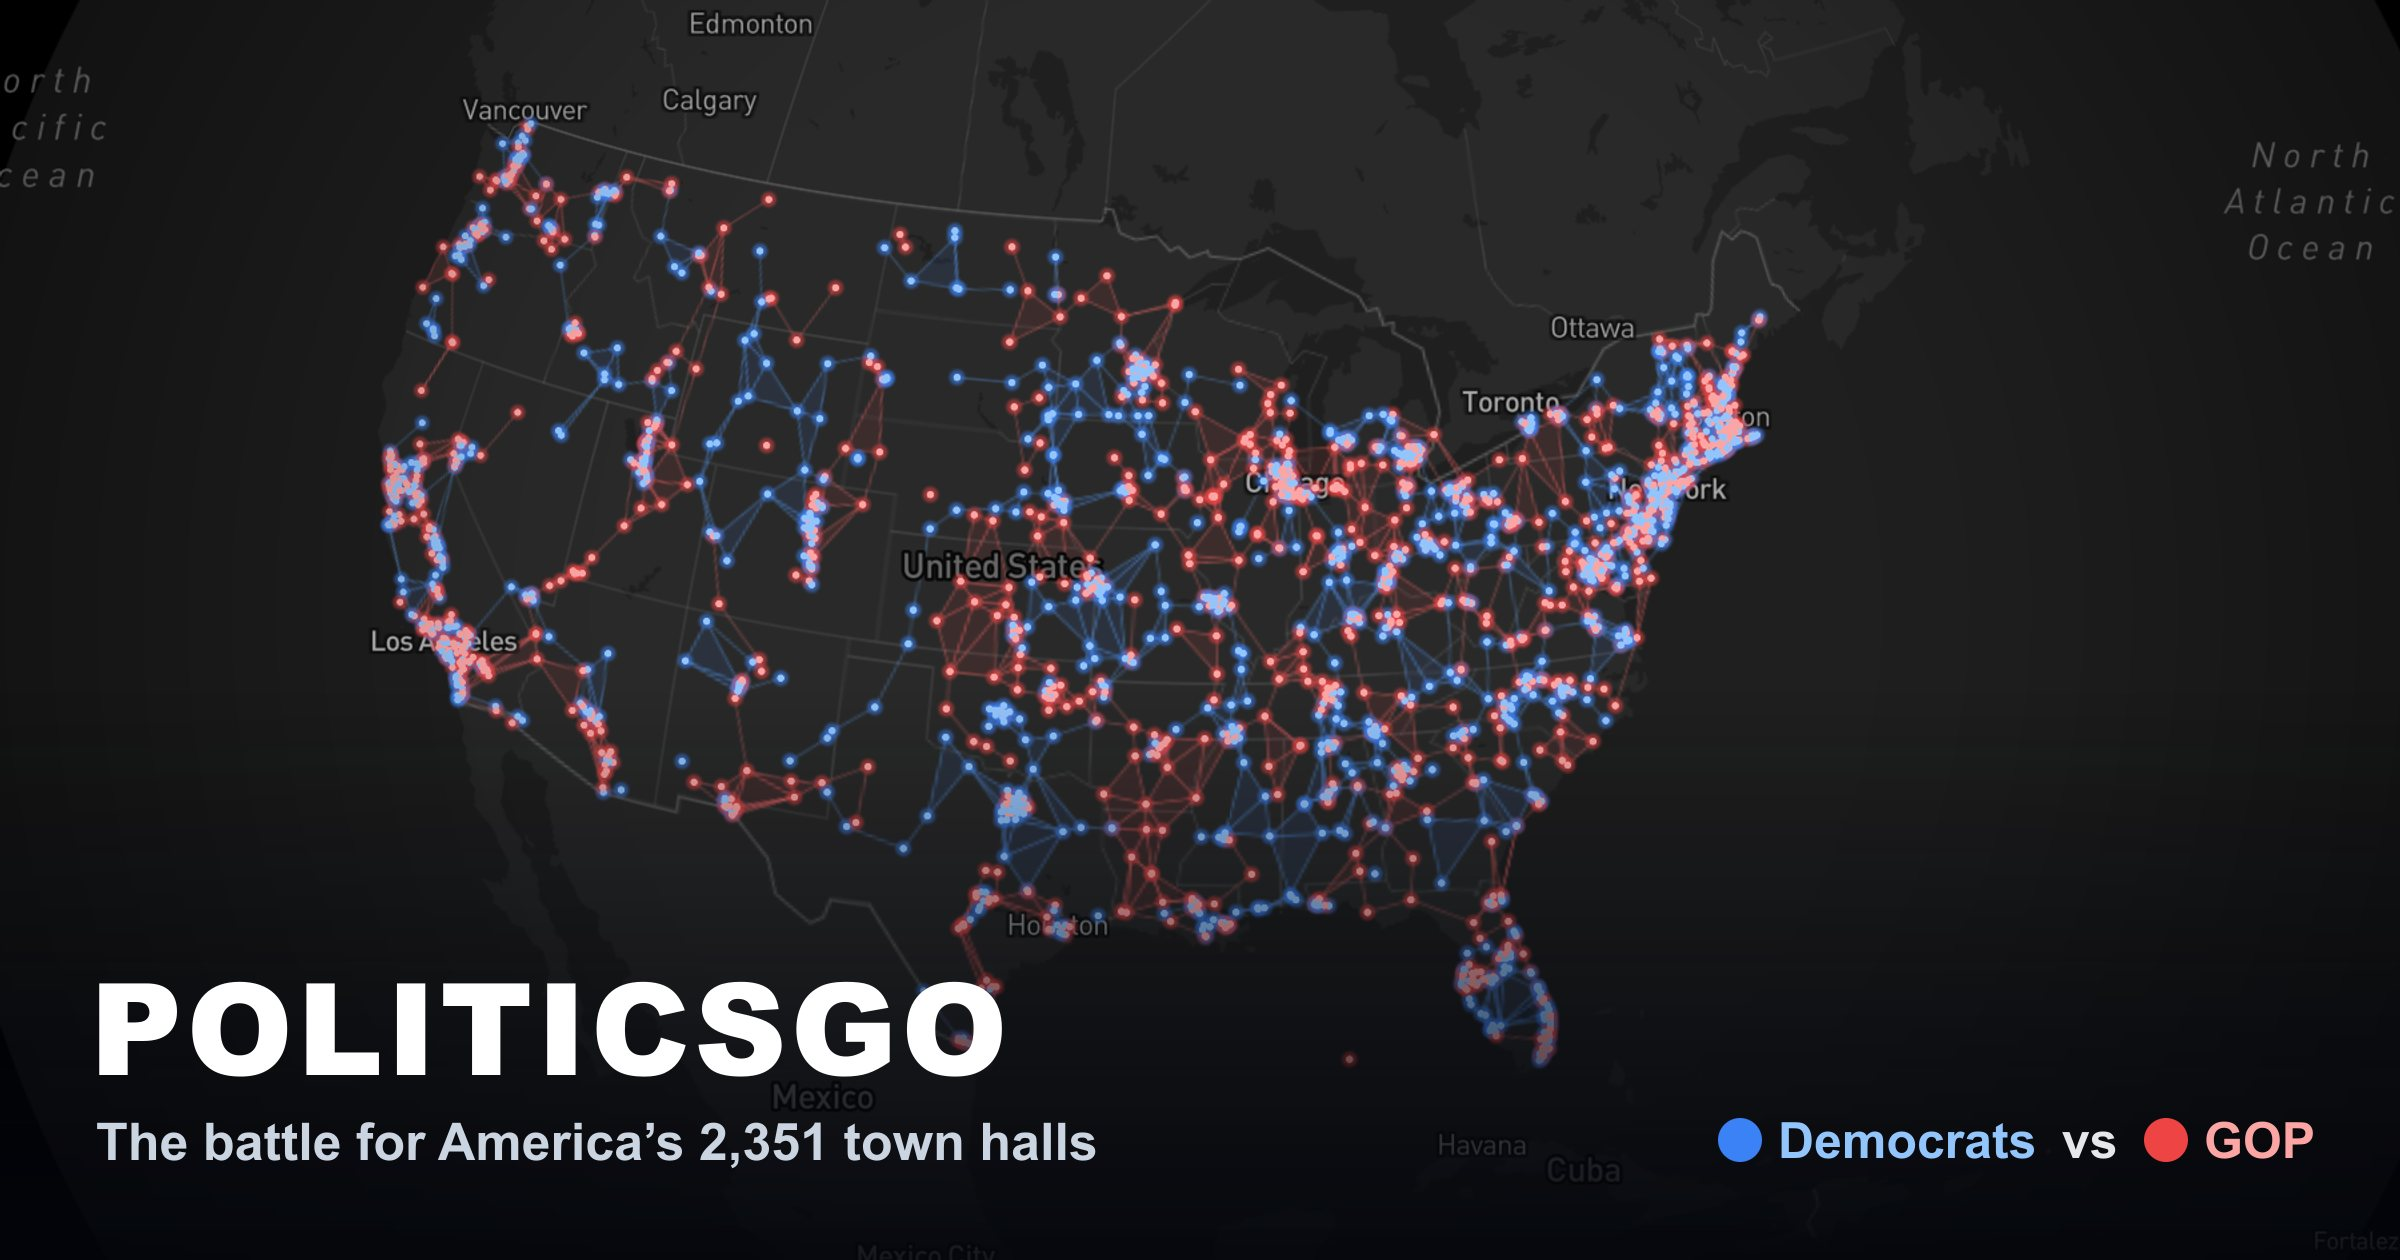
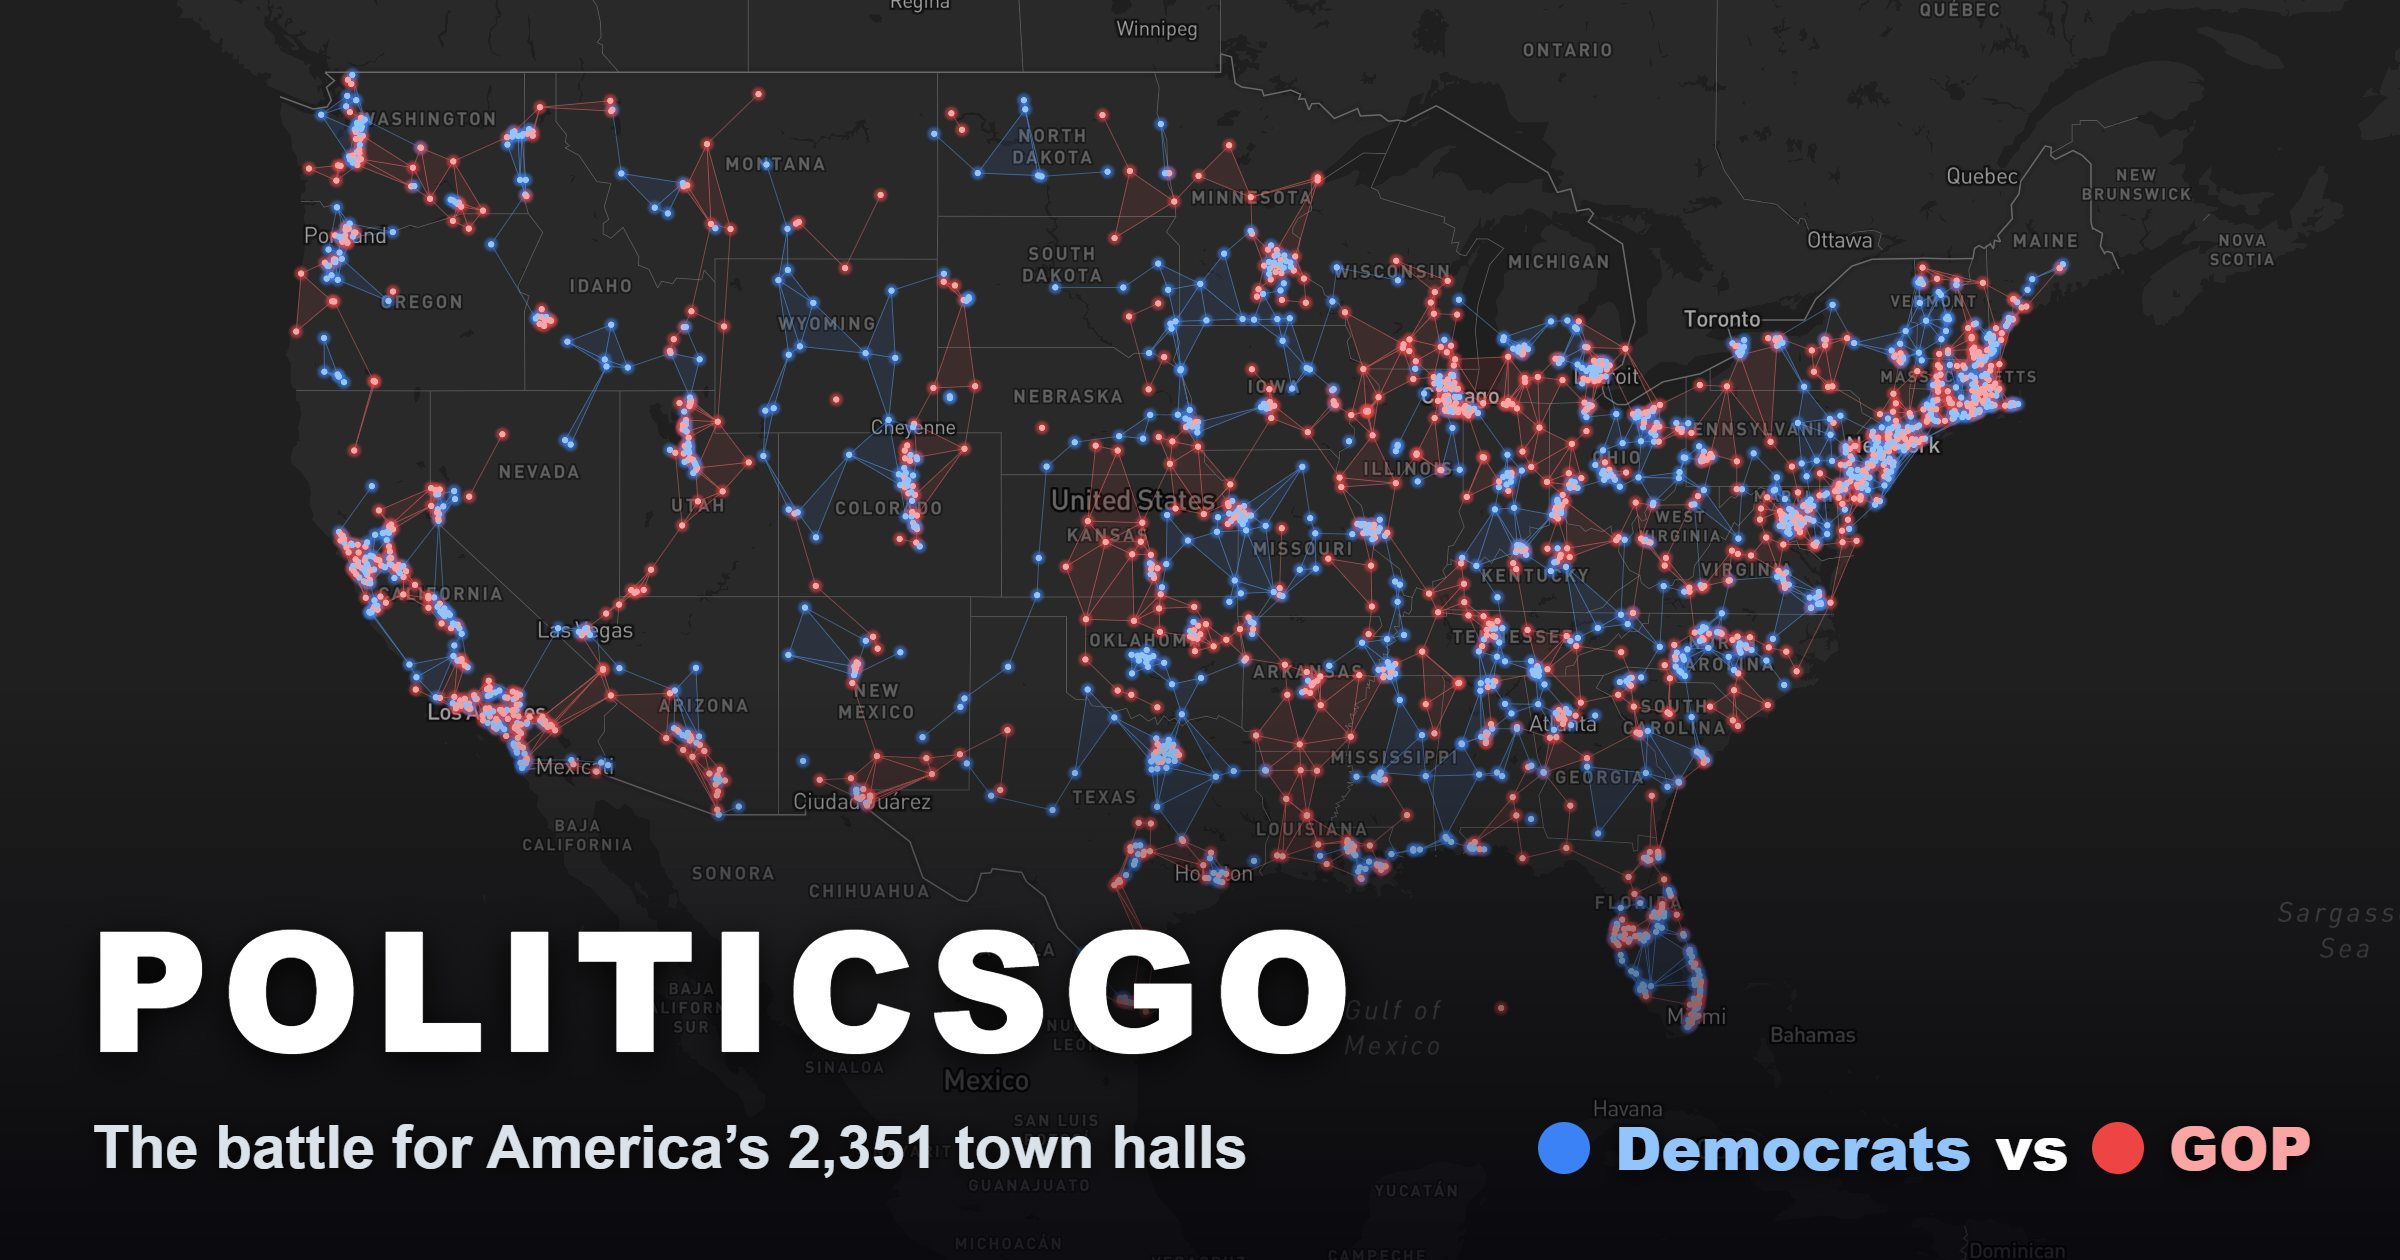
OG card re-shot: straight, centered, tighter US (Michael)
The old capture used Mapbox's globe projection — the US sat tilted and
off-center with dead space on the right. New card: flat mercator,
bearing/pitch 0, fitBounds on the continental US with tight padding, live
town-hall count in the tagline, same headline/legend layout.

- scripts/og_shot.mjs: repeatable capture harness (dev server + puppeteer
  + sharp; the old one-off script was lost) — isolates the map canvas,
  steers the view via a new window.__bmap hook in BattleMap, overlays the
  card text, saves 2400x1260 public/og.jpg.
- /og.jpg refs bumped to ?v=2 (layout + fight pages) so Twitter's card
  cache refetches.

diff --git a/app/layout.tsx b/app/layout.tsx
@@ -21,13 +21,14 @@ export const metadata: Metadata = {
     url: '/',
     siteName: 'PoliticsGo',
     type: 'website',
-    images: [{ url: '/og.jpg', width: 2400, height: 1260, alt: 'The PoliticsGo national battle map' }],
+    // ?v busts Twitter's card cache when the capture is re-shot (og_shot.mjs)
+    images: [{ url: '/og.jpg?v=2', width: 2400, height: 1260, alt: 'The PoliticsGo national battle map' }],
   },
   twitter: {
     card: 'summary_large_image',
     title: 'PoliticsGo — the battle for America\'s town halls',
     description: 'Every dot is a real town hall held by Democrats or Republicans. Pick a side, walk your town, and take it.',
-    images: ['/og.jpg'],
+    images: ['/og.jpg?v=2'],
   },
   manifest: '/manifest.json',
   appleWebApp: {

diff --git a/app/fight/[id]/page.tsx b/app/fight/[id]/page.tsx
@@ -36,9 +36,9 @@ export async function generateMetadata({ params }: { params: Promise<{ id: strin
     description,
     openGraph: {
       title, description,
-      images: [{ url: '/og.jpg', width: 2400, height: 1260, alt: 'The PoliticsGo national battle map' }],
+      images: [{ url: '/og.jpg?v=2', width: 2400, height: 1260, alt: 'The PoliticsGo national battle map' }],
     },
-    twitter: { card: 'summary_large_image', title, description, images: ['/og.jpg'] },
+    twitter: { card: 'summary_large_image', title, description, images: ['/og.jpg?v=2'] },
   }
 }
 

diff --git a/components/BattleMap.tsx b/components/BattleMap.tsx
@@ -62,6 +62,9 @@ export default function BattleMap({ halls, height = '60vh', signedIn = false, ho
       maxZoom: 12,
     })
     map.current = m
+    // capture tooling (OG card re-shoots): lets a headless script steer the
+    // view (projection/bounds) — harmless in normal use
+    ;(window as any).__bmap = m
     m.addControl(new mapboxgl.NavigationControl({ showCompass: false }), 'top-right')
 
     m.on('load', () => {